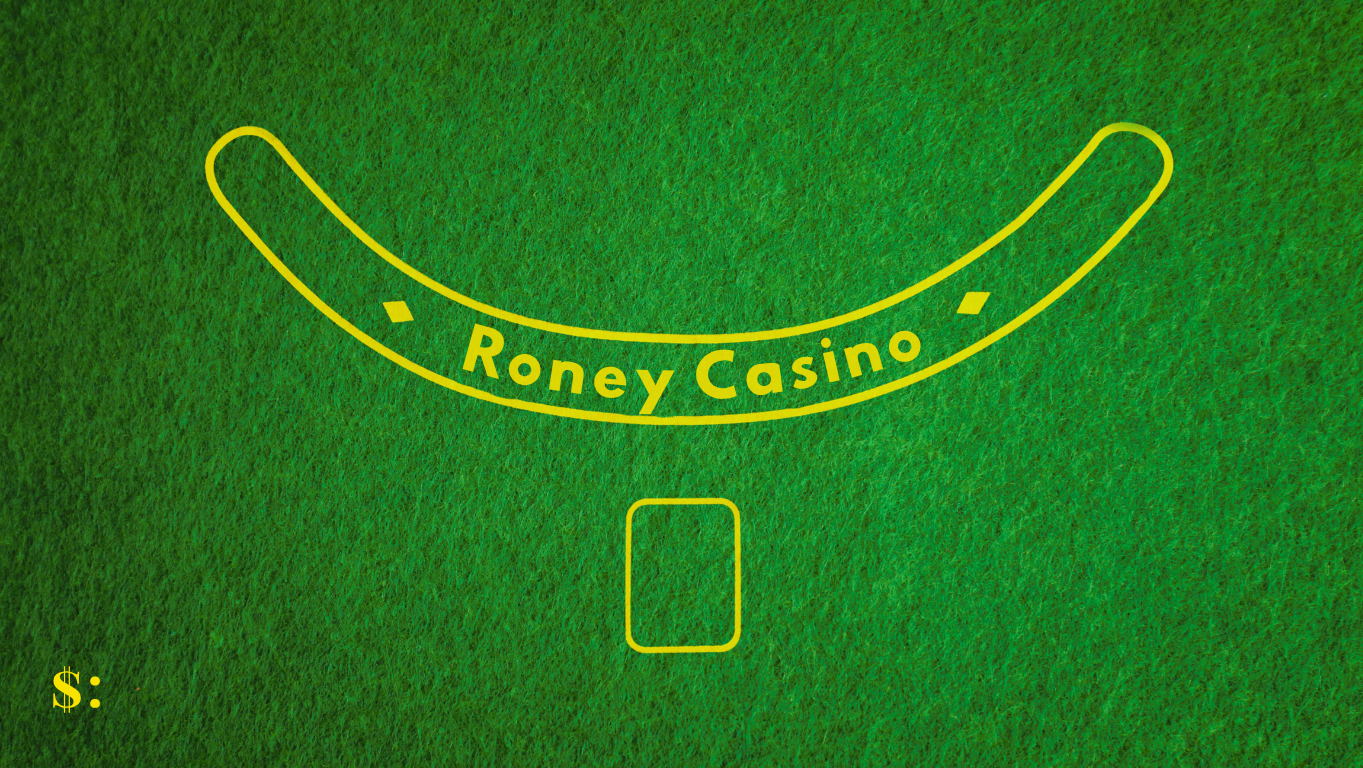
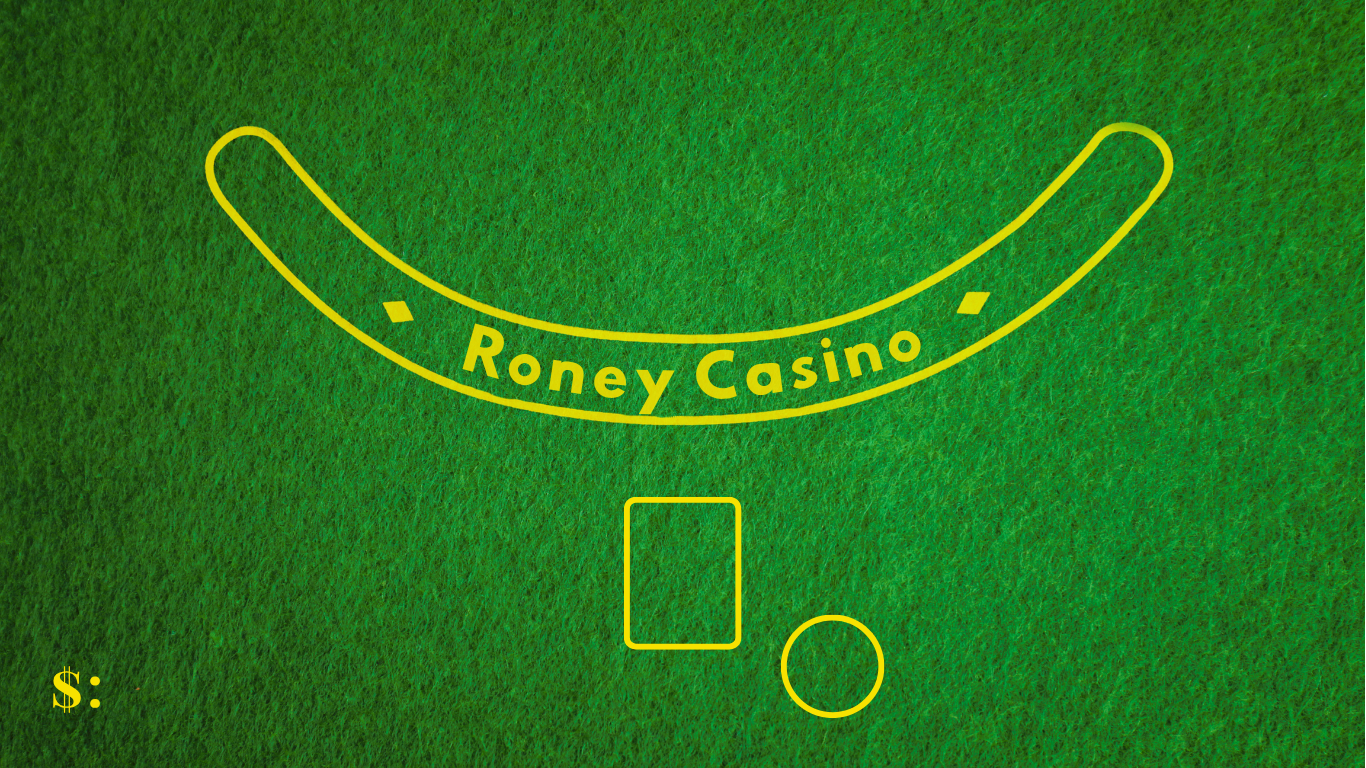
BJ Rules

Changed region(s): [[0.2465, 0.0, 1.0, 1.0], [0.2157, 0.375, 0.2465, 0.4062], [0.2157, 0.2188, 0.2465, 0.25]]

diff --git a/ui.py b/ui.py
@@ -1,5 +1,6 @@
 import pygame
-from settings import WHITE, FONT_NAME
+from settings import *
+from buttons import Button
 
 def draw_text(surface, text, size, x, y):
     font = pygame.font.Font(FONT_NAME, size)
@@ -15,7 +16,7 @@ def draw_text_outline_shadow(
     outline_width=3,
     shadow_offset=15
 ):
-    font = pygame.font.Font(FONT_NAME, size)
+    font = pygame.font.Font(TITLE_FONT, size)
 
     # --- Drop Shadow ---
     shadow_surf = font.render(text, True, shadow_color)
@@ -106,3 +107,96 @@ class ShopItem:
 
         # Price
         draw_text_outline_shadow(surface, f"{self.price} chips", 24, self.rect.centerx, self.rect.bottom + 50)
+
+class PopupWindow:
+    def __init__(self, game, width, height, title, lines):
+        self.game = game
+        self.width = width
+        self.height = height
+        self.title = title
+        self.lines = lines  # list of strings
+
+        # Centered position
+        self.x = (game.WIDTH - width) // 2
+        self.y = (game.HEIGHT - height) // 2
+
+        # Play button inside popup
+        self.play_button = Button(
+            self.x + width//2 - 100,
+            self.y + height - 80,
+            200,
+            50,
+            "Play"
+        )
+        
+        # Font
+        self.font = pygame.font.Font(RULE_FONT, 22)
+        self.title_font = pygame.font.Font(RULE_FONT, 40)
+
+
+    def draw(self, surface, background):
+        # Draw the GAME_SELECT background behind popup
+        surface.blit(background, (0, 0))
+
+        # Transparent black rounded rectangle directly on the main surface
+        bg_rect = pygame.Rect(self.x, self.y, self.width, self.height)
+
+        # Create a transparent surface for the rounded rect
+        rounded = pygame.Surface((self.width, self.height), pygame.SRCALPHA)
+        pygame.draw.rect(
+            rounded,
+            (0, 0, 0, 180),  # transparent black
+            (0, 0, self.width, self.height),
+            border_radius=20
+        )
+
+        # Blit the transparent rounded rectangle
+        surface.blit(rounded, (self.x, self.y))
+
+        # Draw white outline on top
+        pygame.draw.rect(
+            surface,
+            (255, 255, 255),
+            bg_rect,
+            width=4,
+            border_radius=20
+        )
+
+
+        # Title
+        draw_text_outline_shadow(
+            surface,
+            self.title,
+            48,
+            self.x + self.width//2,
+            self.y + 60,
+            text_color=(255, 255, 255),
+            outline_color=(0, 0, 0),
+            shadow_color=(0, 0, 0),
+            outline_width=3,
+            shadow_offset=4
+        )
+
+        # Body text
+        y_offset = self.y + 130
+        for line in self.lines:
+            draw_rule_text(
+                surface,
+                line,
+                self.font,
+                self.x + self.width//2,
+                y_offset
+            )
+
+            y_offset += 40
+
+        # Play button
+        self.play_button.draw(surface)
+
+    def is_play_clicked(self):
+        return self.play_button.is_clicked()
+    
+def draw_rule_text(surface, text, font, x, y, color=(255, 255, 255)):
+    text_surf = font.render(text, True, color)
+    text_rect = text_surf.get_rect(center=(x, y))
+    surface.blit(text_surf, text_rect)

diff --git a/game.py b/game.py
@@ -81,6 +81,20 @@ class Game:
         self.tables_tab = Button(30, 610, 200, 60, "Tables")
 
 
+        self.blackjack_popup = PopupWindow(
+            self, 700, 500,
+            "How to Play Blackjack",
+            [
+                "• Goal: Get as close to 21 as possible without going over.",
+                "• You may Hit to draw a card.",
+                "• You may Stand to keep your total.",
+                "• You may Double to double your bet and draw one final card.",
+                "• No splitting in this version.",
+                "• Dealer hits on 16 and stands on 17.",
+                "• A natural 21 (first two cards) pays double."
+            ]
+        )
+
 
         self.running = True
 
@@ -107,13 +121,19 @@ class Game:
                     self.running = False
                     
                 if self.state == "GAME_SELECT" and self.blackjack_btn.is_clicked():
-                    self.state = "BLACKJACK"
+                    self.state = "BLACKJACK_RULES"
                 if self.state == "GAME_SELECT" and self.roulette_btn.is_clicked():
                     self.state = "ROULETTE"
                 if self.state == "GAME_SELECT" and self.letitride_btn.is_clicked():
                     self.state = "LETITRIDE"
                 if self.state == "GAME_SELECT" and self.slots_btn.is_clicked():
                     self.state = "SLOTS"
+                if self.state == "BLACKJACK_RULES":
+                    if self.blackjack_popup.is_play_clicked():
+                        self.fade()
+                        self.state = "BLACKJACK"
+                        self.fade_in()
+
                 if self.back_button.is_clicked():
                     if self.state == "STORE":  
                         self.fade()
@@ -181,6 +201,10 @@ class Game:
             self.slots_btn.draw(self.screen)
             self.back_button.draw(self.screen)
 
+            
+        elif self.state == "BLACKJACK_RULES":
+            self.blackjack_popup.draw(self.screen, self.background)
+            
             
         elif self.state == "STORE":
             self.screen.blit(self.shop_bg, (0, 0))

diff --git a/settings.py b/settings.py
@@ -6,5 +6,8 @@ WHITE = (255, 255, 255)
 BLACK = (0, 0, 0)
 GREEN = (0, 120, 0)
 
-FONT_NAME = "assets/fonts/AnandaBlackPersonalUseRegular-rg9Rx.ttf"
+TITLE_FONT = "assets/fonts/AnandaBlackPersonalUseRegular-rg9Rx.ttf"
+RULE_FONT = "assets/fonts/OpenSans-VariableFont_wdth,wght.ttf"
+
+
 

diff --git a/buttons.py b/buttons.py
@@ -53,7 +53,7 @@ class ImageButton:
         pygame.draw.rect(self.rounded_mask, (255, 255, 255), (0, 0, w, h), border_radius=20)
 
         self.label = label
-        self.font = pygame.font.Font(FONT_NAME, 40)
+        self.font = pygame.font.Font(TITLE_FONT, 40)
 
         self.hovered = False
 